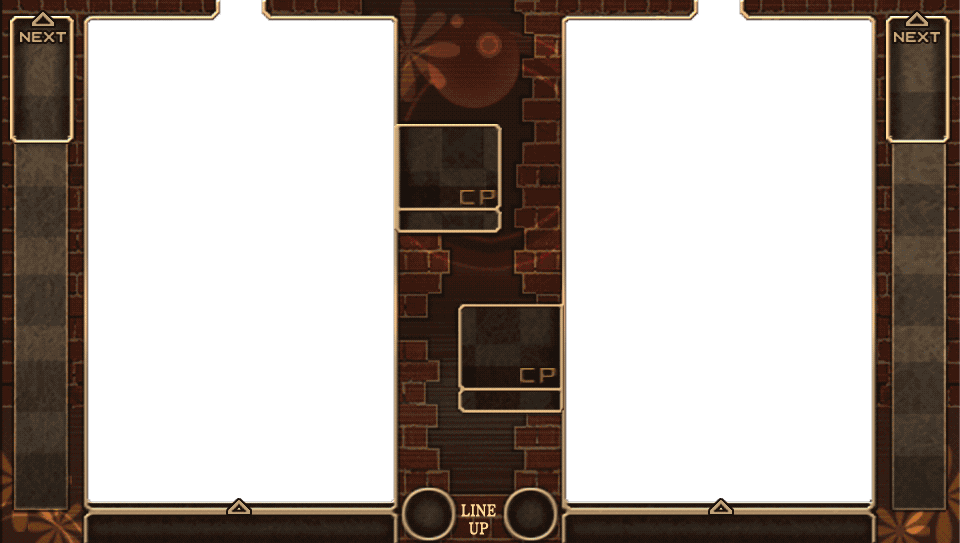
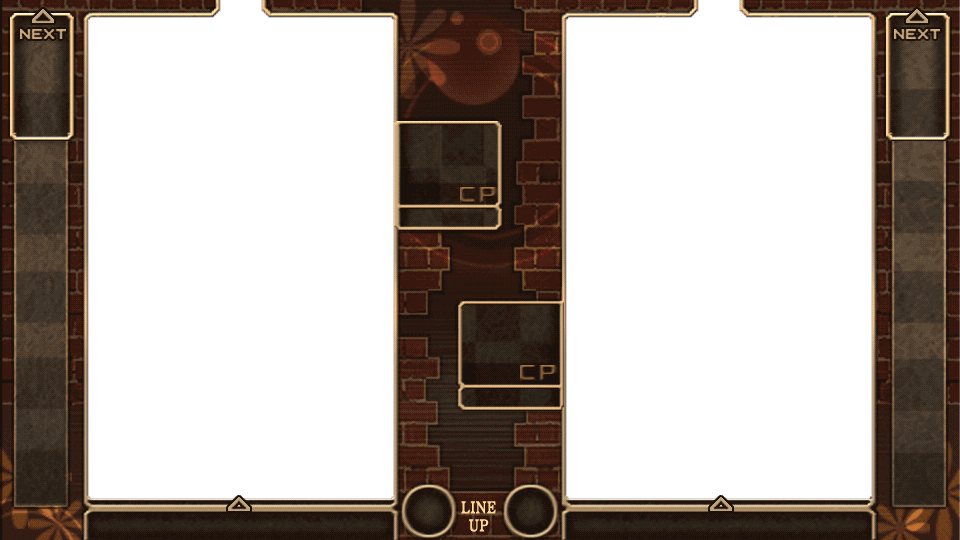
增加图像运动方案。添加音乐处理模块。

diff --git a/src/boboPOM/view/resources/css/style.css b/src/boboPOM/view/resources/css/style.css
@@ -1,6 +1,10 @@
 .background {
-    -fx-background-image: url("../images/main.png");
-    -fx-background-repeat: round;
+    -fx-image: url("../images/main.png");
+
+    -fx-pref-width: 960;
+    -fx-pref-height: 540;
+    /*-fx-background-image: url("../images/main.png");
+    -fx-background-repeat: round;*/
 }
 
 .input {

diff --git a/src/boboPOM/controller/Controller.java b/src/boboPOM/controller/Controller.java
@@ -6,13 +6,19 @@ import javafx.event.ActionEvent;
 import javafx.event.EventHandler;
 import javafx.fxml.FXML;
 import javafx.fxml.Initializable;
+import javafx.scene.control.Button;
+import javafx.scene.control.TextField;
+import javafx.scene.image.Image;
+import javafx.scene.image.ImageView;
 import javafx.scene.input.KeyEvent;
 import javafx.scene.text.Text;
 import javafx.util.Duration;
 import boboPOM.service.SocketLink;
 import boboPOM.util.MsgQueue;
 
+import java.io.File;
 import java.io.IOException;
+import java.net.MalformedURLException;
 import java.net.URL;
 import java.util.ResourceBundle;
 
@@ -20,13 +26,33 @@ import java.util.ResourceBundle;
  * Created by Jeremie on 14-3-1.
  */
 public class Controller implements Initializable {
-    private Timeline timeline;
-    //@FXML
-    //private TextField textField;
+
+    final Duration ANIMATION_TIME = Duration.millis(40);
+    final double width = 960.0;
+    final double height = 540.0;
+
+    @FXML
+    private ImageView background;
+    @FXML
+    private TextField textField;
+    @FXML
+    private Text connectStatus;
     @FXML
     private Text serverStatus;
     @FXML
+    private Button openServer;
+    @FXML
+    private Button closeServer;
+    @FXML
+    private Button openClient;
+    @FXML
+    private Button closeClient;
+    @FXML
     private Text clientStatus;
+    @FXML
+    private ImageView testImage;
+
+    private Timeline timeline;
     private MsgQueue<String> msgQueue;
     private MsgQueue<String> key;
     private SocketLink socketLink;
@@ -34,7 +60,6 @@ public class Controller implements Initializable {
     private Thread tServer;
 
     /**
-     *
      * @param event
      * @throws IOException
      */
@@ -49,6 +74,7 @@ public class Controller implements Initializable {
 
     /**
      * 打开socket服务
+     *
      * @param event
      * @throws IOException
      * @throws InterruptedException
@@ -63,6 +89,7 @@ public class Controller implements Initializable {
 
     /**
      * 关闭socket服务
+     *
      * @param event
      * @throws IOException
      */
@@ -75,6 +102,7 @@ public class Controller implements Initializable {
 
     /**
      * 连接socket
+     *
      * @param event
      */
     @FXML
@@ -88,6 +116,7 @@ public class Controller implements Initializable {
 
     /**
      * 断开socket连接
+     *
      * @param event
      * @throws IOException
      */
@@ -101,12 +130,13 @@ public class Controller implements Initializable {
 
     /**
      * 初始化controller
+     *
      * @param location
      * @param resources
      */
     @Override
     public void initialize(URL location, ResourceBundle resources) {
-        final Duration ANIMATION_TIME = Duration.millis(40);
+        initializeModule(location);
         timeline = new Timeline();
         timeline.setCycleCount(Timeline.INDEFINITE);
         KeyFrame kf = new KeyFrame(ANIMATION_TIME, new EventHandler<ActionEvent>() {
@@ -117,24 +147,64 @@ public class Controller implements Initializable {
                 if (!key.isEmpty()) {
                     clientStatus.setText(clientStatus.getText() + key.recv());
                 }
+                moveImage();
+
             }
         });
         timeline.getKeyFrames().add(kf);
         timeline.play();
-        /*Timer timer = new Timer();
-        timer.schedule(new TimerTaskTest(), 1000, 2000);*/
         msgQueue = new MsgQueue<String>();
-        key= new MsgQueue<String>();
-        socketLink = new SocketLink(msgQueue ,key,5918);
+        key = new MsgQueue<String>();
+        socketLink = new SocketLink(msgQueue, key, 5918);
     }
-/*
-    class TimerTaskTest extends java.util.TimerTask{
 
-        @Override
-        public void run() {
-            if(!msgQueue.isEmpty()){
-                status.setText(msgQueue.recv());
-            }
+    private void initializeModule(URL location) {
+        Image image = new Image(getFilePath(location) + "/resources/images/main.png", width, height, true, false);
+        background.setImage(image);
+        background.setVisible(true);
+        textField.setLayoutX(10);
+        textField.setLayoutY(10);
+        connectStatus.setLayoutX(20);
+        connectStatus.setLayoutY(50);
+        serverStatus.setLayoutX(100);
+        serverStatus.setLayoutY(50);
+        openServer.setLayoutX(10);
+        openServer.setLayoutY(60);
+        closeServer.setLayoutX(100);
+        closeServer.setLayoutY(60);
+        openClient.setLayoutX(10);
+        openClient.setLayoutY(90);
+        closeClient.setLayoutX(100);
+        closeClient.setLayoutY(90);
+        clientStatus.setLayoutX(20);
+        clientStatus.setLayoutY(130);
+        Image imagetest = new Image(getFilePath(location) + "/resources/images/mq0000.png", 15, 15, true, false);
+        testImage.setImage(imagetest);
+        testImage.setLayoutX(width / 4 - 100);
+        testImage.setLayoutY(height / 2);
+    }
+
+    private void moveImage() {
+        double x = testImage.getLayoutX();
+        double y = testImage.getLayoutY();
+        double speed = 10;
+        if ((x >= width / 4 - 100 && x < width / 4) && (y >= height / 2 && y < height / 2 + 100)) {
+            testImage.setLayoutX(x + speed);
+            testImage.setLayoutY(y + speed);
+        } else if ((x >= width / 4 && x < width / 4 + 100) && (y <= height / 2 + 100 && y > height / 2)) {
+            testImage.setLayoutX(x + speed);
+            testImage.setLayoutY(y - speed);
+        }else if((x > width / 4 && x <= width / 4 + 100) && (y <= height / 2 && y > height / 2 - 100)){
+            testImage.setLayoutX(x - speed);
+            testImage.setLayoutY(y - speed);
+        }else if((x > width / 4 - 100 && x <= width / 4) && (y < height / 2 && y >= height / 2 - 100)) {
+            testImage.setLayoutX(x - speed);
+            testImage.setLayoutY(y + speed);
         }
-    }*/
+    }
+
+    private String getFilePath(URL location) {
+        File file = new File(location.toString());
+        return file.getParent().replaceAll("\\\\", "/");
+    }
 }

diff --git a/src/boboPOM/service/MusicLoader.java b/src/boboPOM/service/MusicLoader.java
@@ -1,0 +1,54 @@
+package boboPOM.service;
+
+import java.io.File;
+import java.util.concurrent.ExecutionException;
+import java.util.concurrent.RunnableFuture;
+import java.util.concurrent.TimeUnit;
+import java.util.concurrent.TimeoutException;
+
+public class MusicLoader implements RunnableFuture {
+
+    private File file;
+
+    MusicLoader(String url){
+
+    }
+
+    public boolean playMusic(){
+        return false;
+    }
+
+    public boolean stopMusic(){
+        return false;
+    }
+
+    @Override
+    public void run() {
+
+    }
+
+    @Override
+    public boolean cancel(boolean mayInterruptIfRunning) {
+        return false;
+    }
+
+    @Override
+    public boolean isCancelled() {
+        return false;
+    }
+
+    @Override
+    public boolean isDone() {
+        return false;
+    }
+
+    @Override
+    public Object get() throws InterruptedException, ExecutionException {
+        return null;
+    }
+
+    @Override
+    public Object get(long timeout, TimeUnit unit) throws InterruptedException, ExecutionException, TimeoutException {
+        return null;
+    }
+}

diff --git a/src/boboPOM/view/Main.java b/src/boboPOM/view/Main.java
@@ -18,6 +18,8 @@ public class Main extends Application{
     @Override
     public void start(Stage primaryStage) throws Exception{
         Parent root = FXMLLoader.load(getClass().getResource("Bobobumps.fxml"));
+        primaryStage.setMaxHeight(568);
+        primaryStage.setMaxWidth(966);
         Scene scene = new Scene(root);
         primaryStage.setResizable(false);
         primaryStage.setScene(scene);

diff --git a/test/boboPOM/service/MusicLoaderTest.java b/test/boboPOM/service/MusicLoaderTest.java
@@ -1,0 +1,10 @@
+package boboPOM.service;
+
+/**
+ * Created by Jeremie on 14-3-3.
+ */
+public class MusicLoaderTest {
+    public static void main(String[] args){
+        MusicLoader musicLoader = new MusicLoader("123");
+    }
+}
